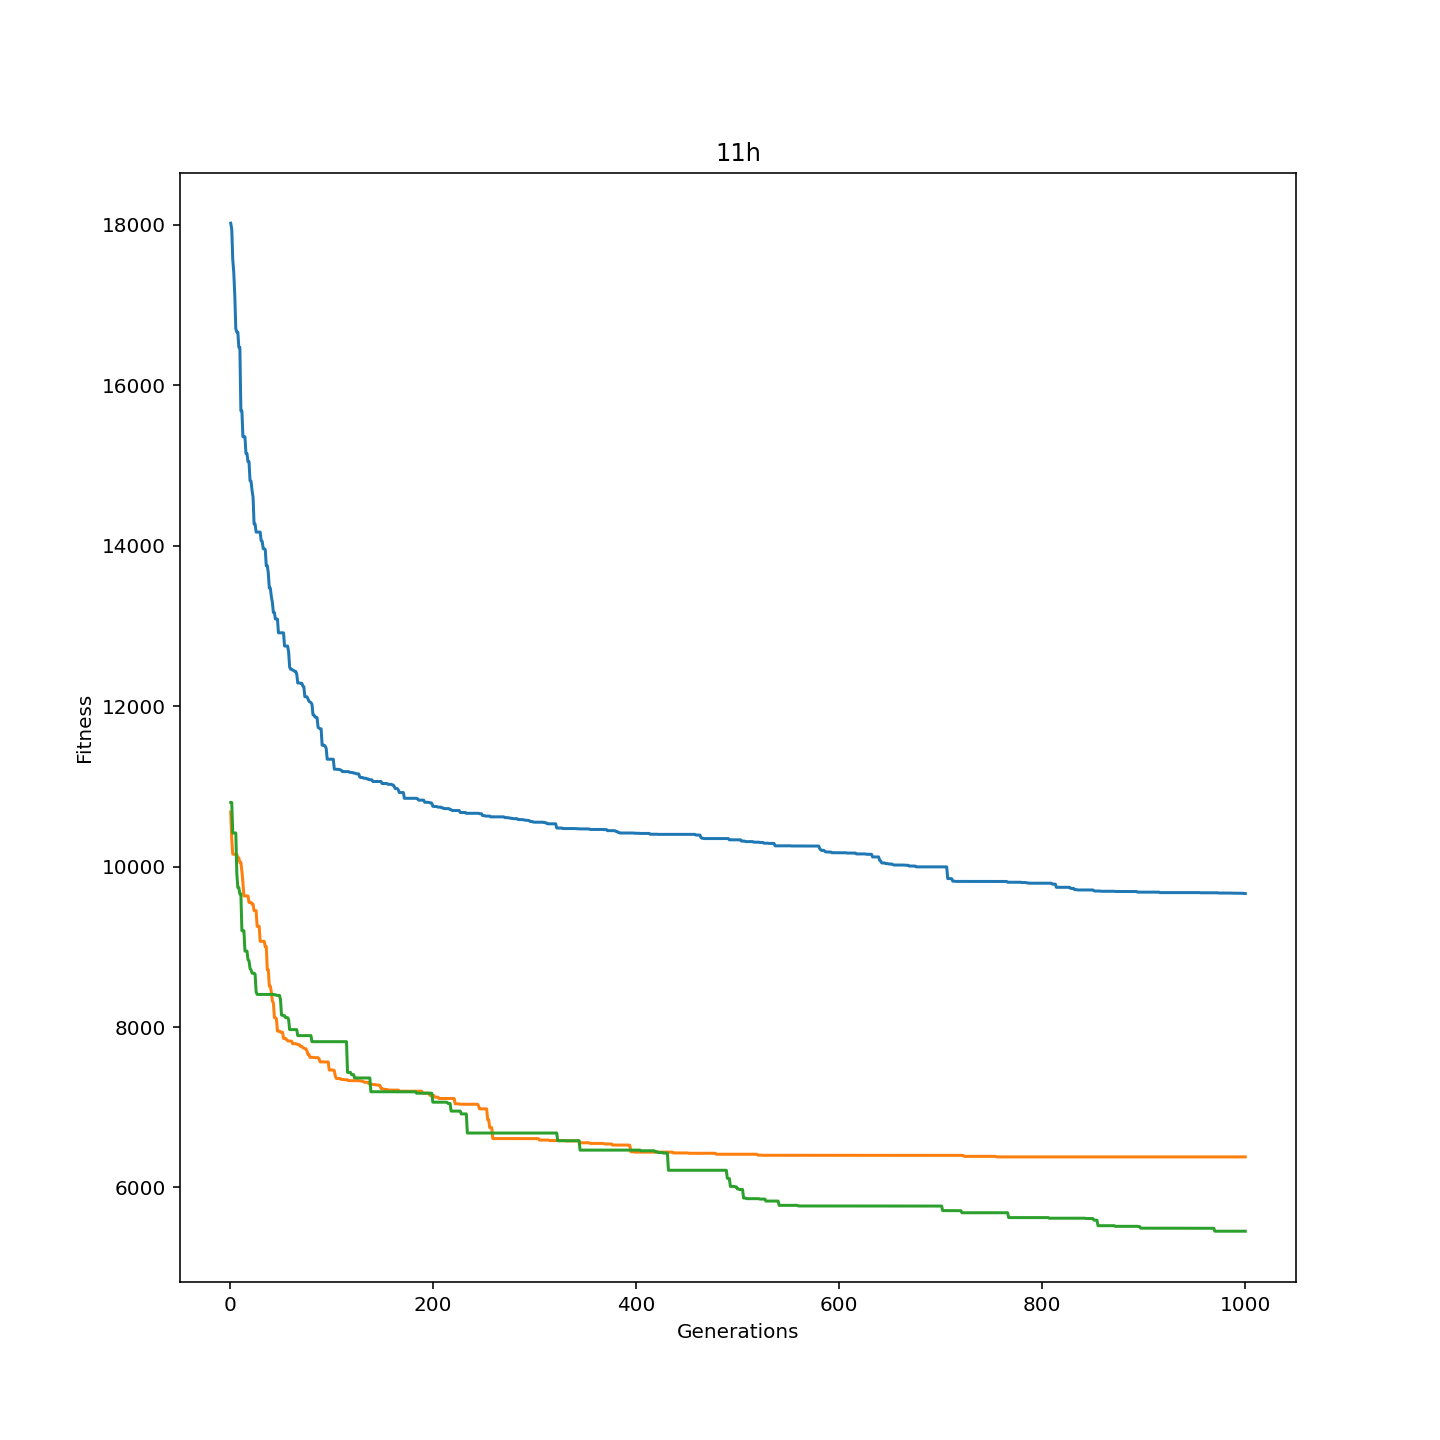
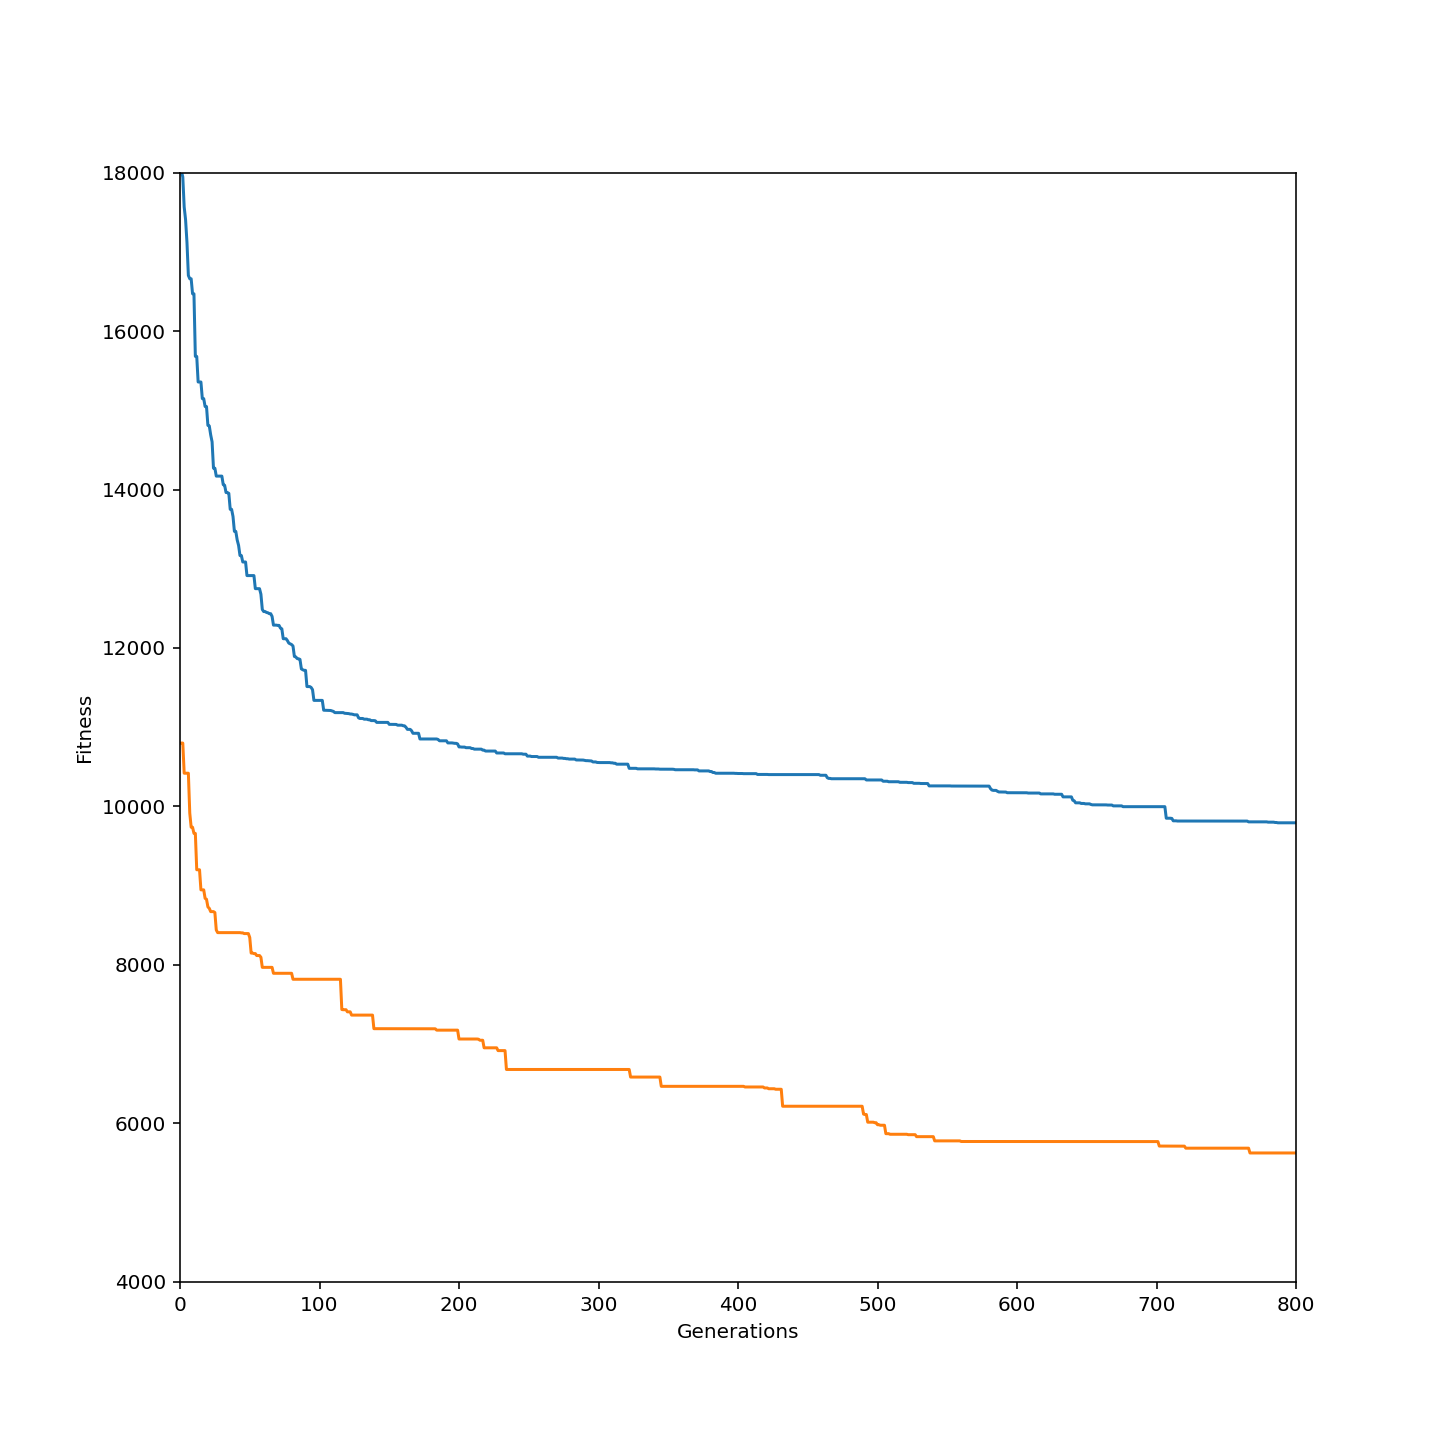
画出适应值图

diff --git a/nsga2vrp.py b/nsga2vrp.py
@@ -670,18 +670,20 @@ class nsgaAlgo():
         plt.savefig(f"./figures/Route_{csv_title}.png")
 
     def plotFitness(self):
-        result1 = pd.read_csv('results/result_type_15h_01.csv')
-        result2 = pd.read_csv('results/result_type_15h_02.csv')
-        result3 = pd.read_csv('results/result_type_15h_03.csv')
+        result1 = pd.read_csv('results/result_type_7h_01.csv')
+        # result2 = pd.read_csv('results/result_type_7h_02.csv')
+        result3 = pd.read_csv('results/result_type_7h_03.csv')
 
         plt.figure(figsize=(10, 10), dpi=144)
         plt.plot(result1['index'], result1['fitness'])
-        plt.plot(result2['index'], result2['fitness'])
+        # plt.plot(result2['index'], result2['fitness'])
         plt.plot(result3['index'], result3['fitness'])
         plt.xlabel("Generations")
         plt.ylabel("Fitness")
-        plt.title('15h')
-        plt.savefig(f"./figures/generation_fitness_15h.png")
+        # plt.title('7h')
+        plt.xlim(0, 800)
+        plt.ylim(4000, 18000)
+        plt.savefig(f"./figures/generation_fitness_7h.png")
 
     def runMain(self):
         self.init_generation()
